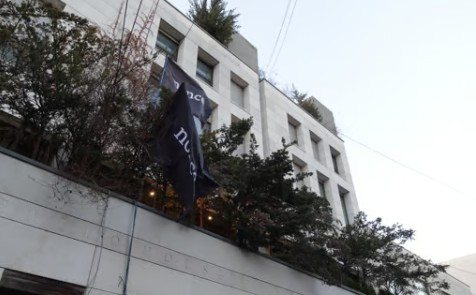
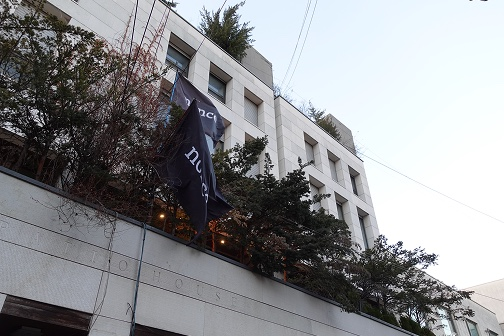
Replace Genesis and Immersion card photos
Genesis uses a 1360px exterior shot cropped to 16:10 so the Basecamp
for Future Rebels sign stays in frame; Immersion uses a slightly larger
504px source.

diff --git a/index.html b/index.html
@@ -147,7 +147,7 @@
 </figure>
 <div class="cards">
 <a class="card" href="genesis.html" aria-label="논스 제네시스 (1호점) 자세히 보기">
-<img src="img/cards/genesis.jpg" alt="논스 제네시스 건물 외관 — 유리 커튼월 건물 앞에 Basecamp for Future Rebels 현판" width="476" height="295" loading="lazy" decoding="async">
+<img src="img/cards/genesis.jpg" alt="논스 제네시스 건물 외관 — 유리 커튼월 건물 앞에 Basecamp for Future Rebels 현판" width="960" height="600" loading="lazy" decoding="async">
 <div class="tt">
 <span class="num">1호점</span>
 <h3><span class="full">논스 제네시스 (1호점)</span><span class="short">논스 제네시스</span></h3>
@@ -183,7 +183,7 @@
 <div class="tags"><span class="tag">코리빙</span></div>
 </a>
 <a class="card" href="immersion.html" aria-label="논스 이머전하우스 (現 4호점) 자세히 보기">
-<img src="img/cards/immersion.jpg" alt="논스 이머전하우스 외관 — nonce 깃발이 걸린 흰 건물" width="476" height="295" loading="lazy" decoding="async">
+<img src="img/cards/immersion.jpg" alt="논스 이머전하우스 외관 — nonce 깃발이 걸린 흰 건물" width="504" height="336" loading="lazy" decoding="async">
 <div class="tt">
 <span class="num">現 4호점</span>
 <h3><span class="full">논스 이머전하우스 (現 4호점)</span><span class="short">논스 이머전하우스</span></h3>
